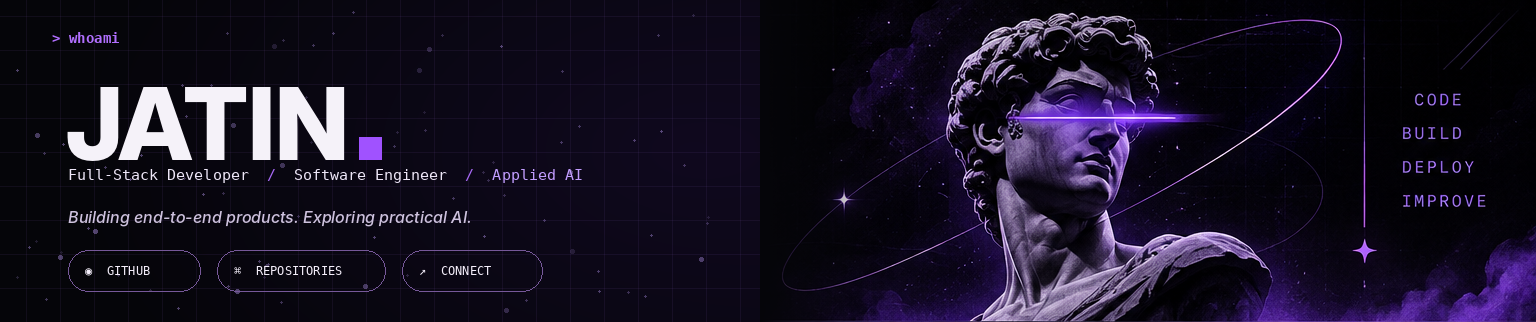
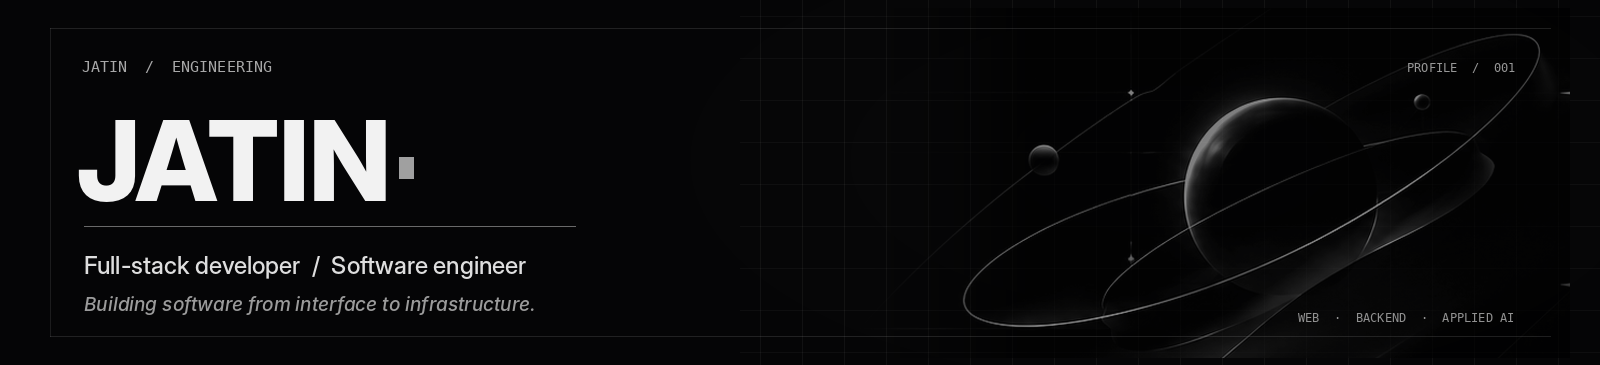
Refine GitHub profile design

diff --git a/README.md b/README.md
@@ -1,160 +1,77 @@
 <div align="center">
 
-<img src="./assets/hero.png" width="100%" alt="Jatin — Full-Stack Developer, Software Engineer and Applied AI" />
+<img src="./assets/hero.png" width="100%" alt="Jatin — Full-stack developer and software engineer" />
 
 <br/>
 
-<a href="https://github.com/Jatinn07">
-  <img src="https://img.shields.io/badge/GITHUB_PROFILE-Jatinn07-17131F?style=for-the-badge&logo=github&logoColor=E9D5FF" alt="GitHub profile"/>
-</a>
-&nbsp;
-<a href="https://github.com/Jatinn07?tab=repositories">
-  <img src="https://img.shields.io/badge/REPOSITORIES-EXPLORE-17131F?style=for-the-badge&logo=github&logoColor=E9D5FF" alt="Public repositories"/>
-</a>
-&nbsp;
-<a href="#connect">
-  <img src="https://img.shields.io/badge/CONNECT-GET_IN_TOUCH-17131F?style=for-the-badge&logo=maildotru&logoColor=C084FC" alt="Connect"/>
-</a>
+<a href="https://github.com/Jatinn07">GitHub profile</a>
+&nbsp;&nbsp;·&nbsp;&nbsp;
+<a href="https://github.com/Jatinn07?tab=repositories">Repositories</a>
 
 </div>
 
-<br/>
+## 01 — Profile
 
-<table>
-<tr>
-<td width="34%" valign="top">
+I'm a **Full-Stack Developer at AV Technosys**, working across frontend applications, backend APIs, databases, authentication and deployment.
 
-### <img src="./assets/marker.svg" width="12" height="12" alt=""/> 01 / ABOUT ME
+I enjoy building complete product workflows: understanding requirements, shaping the application structure, implementing interfaces and services, integrating external systems, and debugging issues through production.
 
-I'm a full-stack developer working across frontend, backend APIs, databases, authentication and deployment.
-
-At **AV Technosys**, I work on real-world applications and production delivery — from building interfaces and integrating services to debugging issues and improving application workflows.
-
-I enjoy understanding how the pieces of a product fit together and taking features from implementation through production.
-
-<img src="./assets/hatch.svg" width="82%" alt="Purple diagonal accent"/>
-
-</td>
-<td width="44%" valign="top">
-
-### <img src="./assets/marker.svg" width="12" height="12" alt=""/> 02 / TECH STACK
-
-**LANGUAGES & FRONTEND**
-
-<img src="https://skillicons.dev/icons?i=ts,js,python,react,nextjs,tailwind&theme=dark" alt="TypeScript, JavaScript, Python, React, Next.js and Tailwind CSS"/>
-
-**BACKEND & DATABASES**
-
-<img src="https://skillicons.dev/icons?i=nodejs,django,postgres,mysql&theme=dark" alt="Node.js, Django, PostgreSQL and MySQL"/>
-
-**CLOUD & DEVELOPMENT TOOLS**
-
-<img src="https://skillicons.dev/icons?i=aws,vercel,git,github,vscode,figma,postman,linux&theme=dark" alt="AWS, Vercel, Git, GitHub, VS Code, Figma, Postman and Linux"/>
-
-<sub>Also worked with: Drizzle ORM · REST APIs · JWT authentication · AWS S3 · EC2 · CloudFront · React Native · Expo</sub>
-
-</td>
-<td width="22%" valign="top">
-
-### <img src="./assets/marker.svg" width="12" height="12" alt=""/> 03 / CURRENT FOCUS
-
-`01` System design
-
-`02` AI-powered applications
-
-`03` Backend architecture
-
-`04` Production debugging
-
-`05` Cloud deployment
-
-<br/>
-
-<img src="./assets/quote.svg" width="100%" alt="Ship better. Iterate faster."/>
-
-</td>
-</tr>
-</table>
+My current interests are **applied AI, backend architecture, system design and reliable software delivery**.
 
 ---
 
-### <img src="./assets/marker.svg" width="12" height="12" alt=""/> 04 / GITHUB ACTIVITY
+## 02 — Technical toolkit
 
-<table>
-<tr>
-<td width="33%" valign="middle">
+| DOMAIN | TECHNOLOGIES |
+|:--|:--|
+| **Frontend** | TypeScript · JavaScript · React · Next.js · Tailwind CSS |
+| **Backend** | Node.js · Django · REST APIs · JWT |
+| **Data** | PostgreSQL · MySQL · Drizzle ORM |
+| **Cloud** | AWS S3 · EC2 · CloudFront · Vercel |
+| **Mobile** | React Native · Expo |
+| **Workflow** | Git · GitHub · Linux · VS Code · Postman · Figma |
 
-<img width="100%" src="https://github-readme-stats.vercel.app/api?username=Jatinn07&show_icons=true&hide_border=true&bg_color=0D0A12&title_color=C084FC&icon_color=A855F7&text_color=E9D5FF&rank_icon=github&include_all_commits=true" alt="GitHub statistics"/>
+---
 
-</td>
-<td width="33%" valign="middle">
+## 03 — Current direction
 
-<img width="100%" src="https://github-readme-stats.vercel.app/api/top-langs/?username=Jatinn07&layout=compact&hide_border=true&bg_color=0D0A12&title_color=C084FC&text_color=E9D5FF&langs_count=6" alt="Most used languages"/>
+**Application engineering**  
+Building maintainable full-stack products, with attention to how frontend, APIs and data layers fit together.
 
-</td>
-<td width="34%" valign="middle">
+**Applied AI**  
+Integrating model APIs into practical product workflows.
 
-<img width="100%" src="https://streak-stats.demolab.com/?user=Jatinn07&hide_border=true&background=0D0A12&ring=C084FC&fire=A855F7&currStreakLabel=C084FC&sideLabels=E9D5FF&dates=9B8AAE&currStreakNum=E9D5FF&sideNums=E9D5FF" alt="GitHub contribution streak"/>
+**System design**  
+Learning to reason about architecture, boundaries, trade-offs and scalability.
 
-</td>
-</tr>
-</table>
+**Production engineering**  
+Debugging real application behavior, improving reliability and managing deployments.
+
+---
+
+## 04 — GitHub activity
 
 <div align="center">
 
-<img width="100%" src="https://github-readme-activity-graph.vercel.app/graph?username=Jatinn07&bg_color=0D0A12&color=E9D5FF&line=A855F7&point=E9D5FF&area=true&area_color=6D28D9&hide_border=true&custom_title=CONTRIBUTION%20TIMELINE" alt="GitHub contribution timeline"/>
+<img height="160" src="https://github-readme-stats.vercel.app/api?username=Jatinn07&show_icons=true&hide_border=true&bg_color=050505&title_color=E5E5E5&icon_color=9A9A9A&text_color=C8C8C8&rank_icon=github&include_all_commits=true" alt="GitHub statistics" />
+&nbsp;
+<img height="160" src="https://github-readme-stats.vercel.app/api/top-langs/?username=Jatinn07&layout=compact&hide_border=true&bg_color=050505&title_color=E5E5E5&text_color=C8C8C8&langs_count=6" alt="Most used languages" />
+
+<br/><br/>
+
+<img width="100%" src="https://github-readme-activity-graph.vercel.app/graph?username=Jatinn07&bg_color=050505&color=BDBDBD&line=8A8A8A&point=F0F0F0&area=true&area_color=303030&hide_border=true&custom_title=CONTRIBUTION%20ACTIVITY" alt="GitHub contribution activity" />
 
 </div>
 
 ---
 
-<table>
-<tr>
-<td width="70%" valign="top">
+## 05 — Connect
 
-### <img src="./assets/marker.svg" width="12" height="12" alt=""/> 05 / CONTRIBUTION LOOP
+For technical conversations and collaboration, GitHub is the best public starting point.
 
-<sub>AUTOMATICALLY REGENERATED BY GITHUB ACTIONS</sub>
-
-<picture>
-  <source media="(prefers-color-scheme: dark)" srcset="https://raw.githubusercontent.com/Jatinn07/Jatinn07/output/github-snake-dark.svg"/>
-  <source media="(prefers-color-scheme: light)" srcset="https://raw.githubusercontent.com/Jatinn07/Jatinn07/output/github-snake.svg"/>
-  <img src="https://raw.githubusercontent.com/Jatinn07/Jatinn07/output/github-snake-dark.svg" width="100%" alt="Animated GitHub contribution snake"/>
-</picture>
-
-</td>
-<td width="30%" valign="top">
-
-<a id="connect"></a>
-
-### <img src="./assets/marker.svg" width="12" height="12" alt=""/> 06 / CONNECT
-
-For collaboration, technical conversations or questions, the best public starting point is my GitHub profile.
-
-<br/>
-
-<a href="https://github.com/Jatinn07">
-  <img src="https://img.shields.io/badge/GITHUB_PROFILE-18131F?style=for-the-badge&logo=github&logoColor=E9D5FF" alt="GitHub profile"/>
-</a>
-
-<br/><br/>
-
-<a href="https://github.com/Jatinn07?tab=repositories">
-  <img src="https://img.shields.io/badge/PUBLIC_REPOSITORIES-18131F?style=for-the-badge&logo=github&logoColor=E9D5FF" alt="Public repositories"/>
-</a>
-
-<br/><br/>
-
-<sub>Let's build something meaningful.</sub>
-
-</td>
-</tr>
-</table>
+**[GitHub profile](https://github.com/Jatinn07)**  
+**[Browse public repositories](https://github.com/Jatinn07?tab=repositories)**
 
 <div align="center">
-
-<img src="./assets/footer.svg" width="100%" alt="Jatin — End of profile"/>
-
-<sub>DESIGNED WITH INTENT · ENGINEERED WITH CURIOSITY · JATIN / 2026</sub>
-
+  <sub>ENGINEERED WITH CURIOSITY · JATIN</sub>
 </div>

diff --git a/SETUP.md b/SETUP.md
@@ -1,0 +1,66 @@
+# Jatinn07 GitHub profile
+
+Prepared for the special public repository:
+
+`https://github.com/Jatinn07/Jatinn07`
+
+## Files
+
+- `README.md` — profile content and layout.
+- `assets/hero.png` — custom black-and-monochrome typographic banner.
+
+The ZIP contains these files at its root. Extract directly into the cloned repository.
+
+## Replace the previous version on Manjaro
+
+If your repository is already cloned at `~/Code/Jatinn07`:
+
+```bash
+cd ~/Code/Jatinn07
+
+# Remove assets and the contribution workflow from the previous design.
+rm -rf assets
+rm -f .github/workflows/snake.yml
+
+# Install the new README and its only required image.
+unzip -o ~/Downloads/Jatinn07.zip
+
+# Remove now-empty workflow folders, if possible.
+rmdir .github/workflows .github 2>/dev/null || true
+
+git status
+git add -A
+git commit -m "Refine GitHub profile design"
+git push origin "$(git branch --show-current)"
+```
+
+If the ZIP is not in `~/Downloads`, replace that path with its actual location.
+
+If the repository is not cloned yet:
+
+```bash
+cd ~/Code
+git clone git@github.com:Jatinn07/Jatinn07.git
+cd Jatinn07
+unzip -o ~/Downloads/Jatinn07.zip
+git add -A
+git commit -m "Add GitHub profile README"
+git push -u origin main
+```
+
+## GitHub background / theme
+
+A README cannot change the background of GitHub's surrounding profile page. It can only style its own content and embedded images.
+
+To change your own GitHub interface:
+1. Open https://github.com/settings/appearance
+2. Under **Theme mode**, choose **Single theme**.
+3. Select **Dark** or **Dark dimmed**.
+
+This affects your account's GitHub interface. Other visitors see their own theme preference.
+
+## Notes
+
+- No portfolio URL, email address, LinkedIn URL or invented contact detail is included.
+- No project showcase, project cards, contribution snake or colored skill-icon grid is included.
+- GitHub statistics and activity visuals are generated by public third-party services and may occasionally be unavailable.
